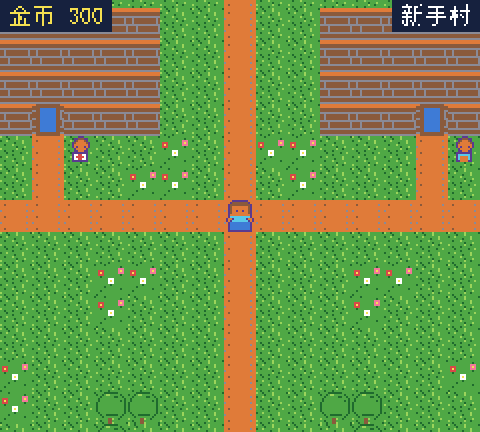
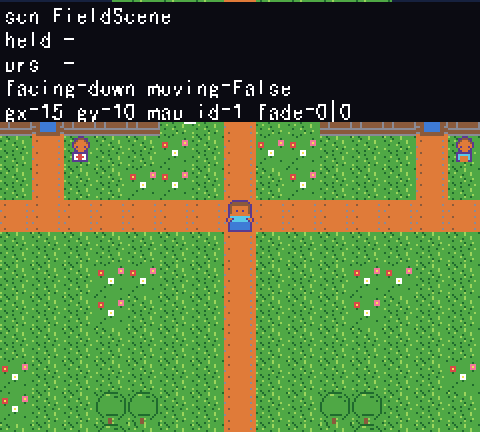
chore(debug): 临时默认开启输入诊断覆盖层，用于定位移动失效问题
定位完成后需把 RealInput.DEBUG 改回 False。

Changed region(s): [[0.0, 0.0, 1.0, 0.3009]]

diff --git a/src/core/input.py b/src/core/input.py
@@ -85,7 +85,8 @@ class RealInput(Input):
     """
 
     #: 打开后每帧打印按键状态变化（诊断用）
-    DEBUG = False
+    #: 临时默认开启，用于排查"地图上不能移动"；定位完成后改回 False。
+    DEBUG = True
 
     def __init__(self) -> None:
         self._dbg_last: frozenset[str] = frozenset()
